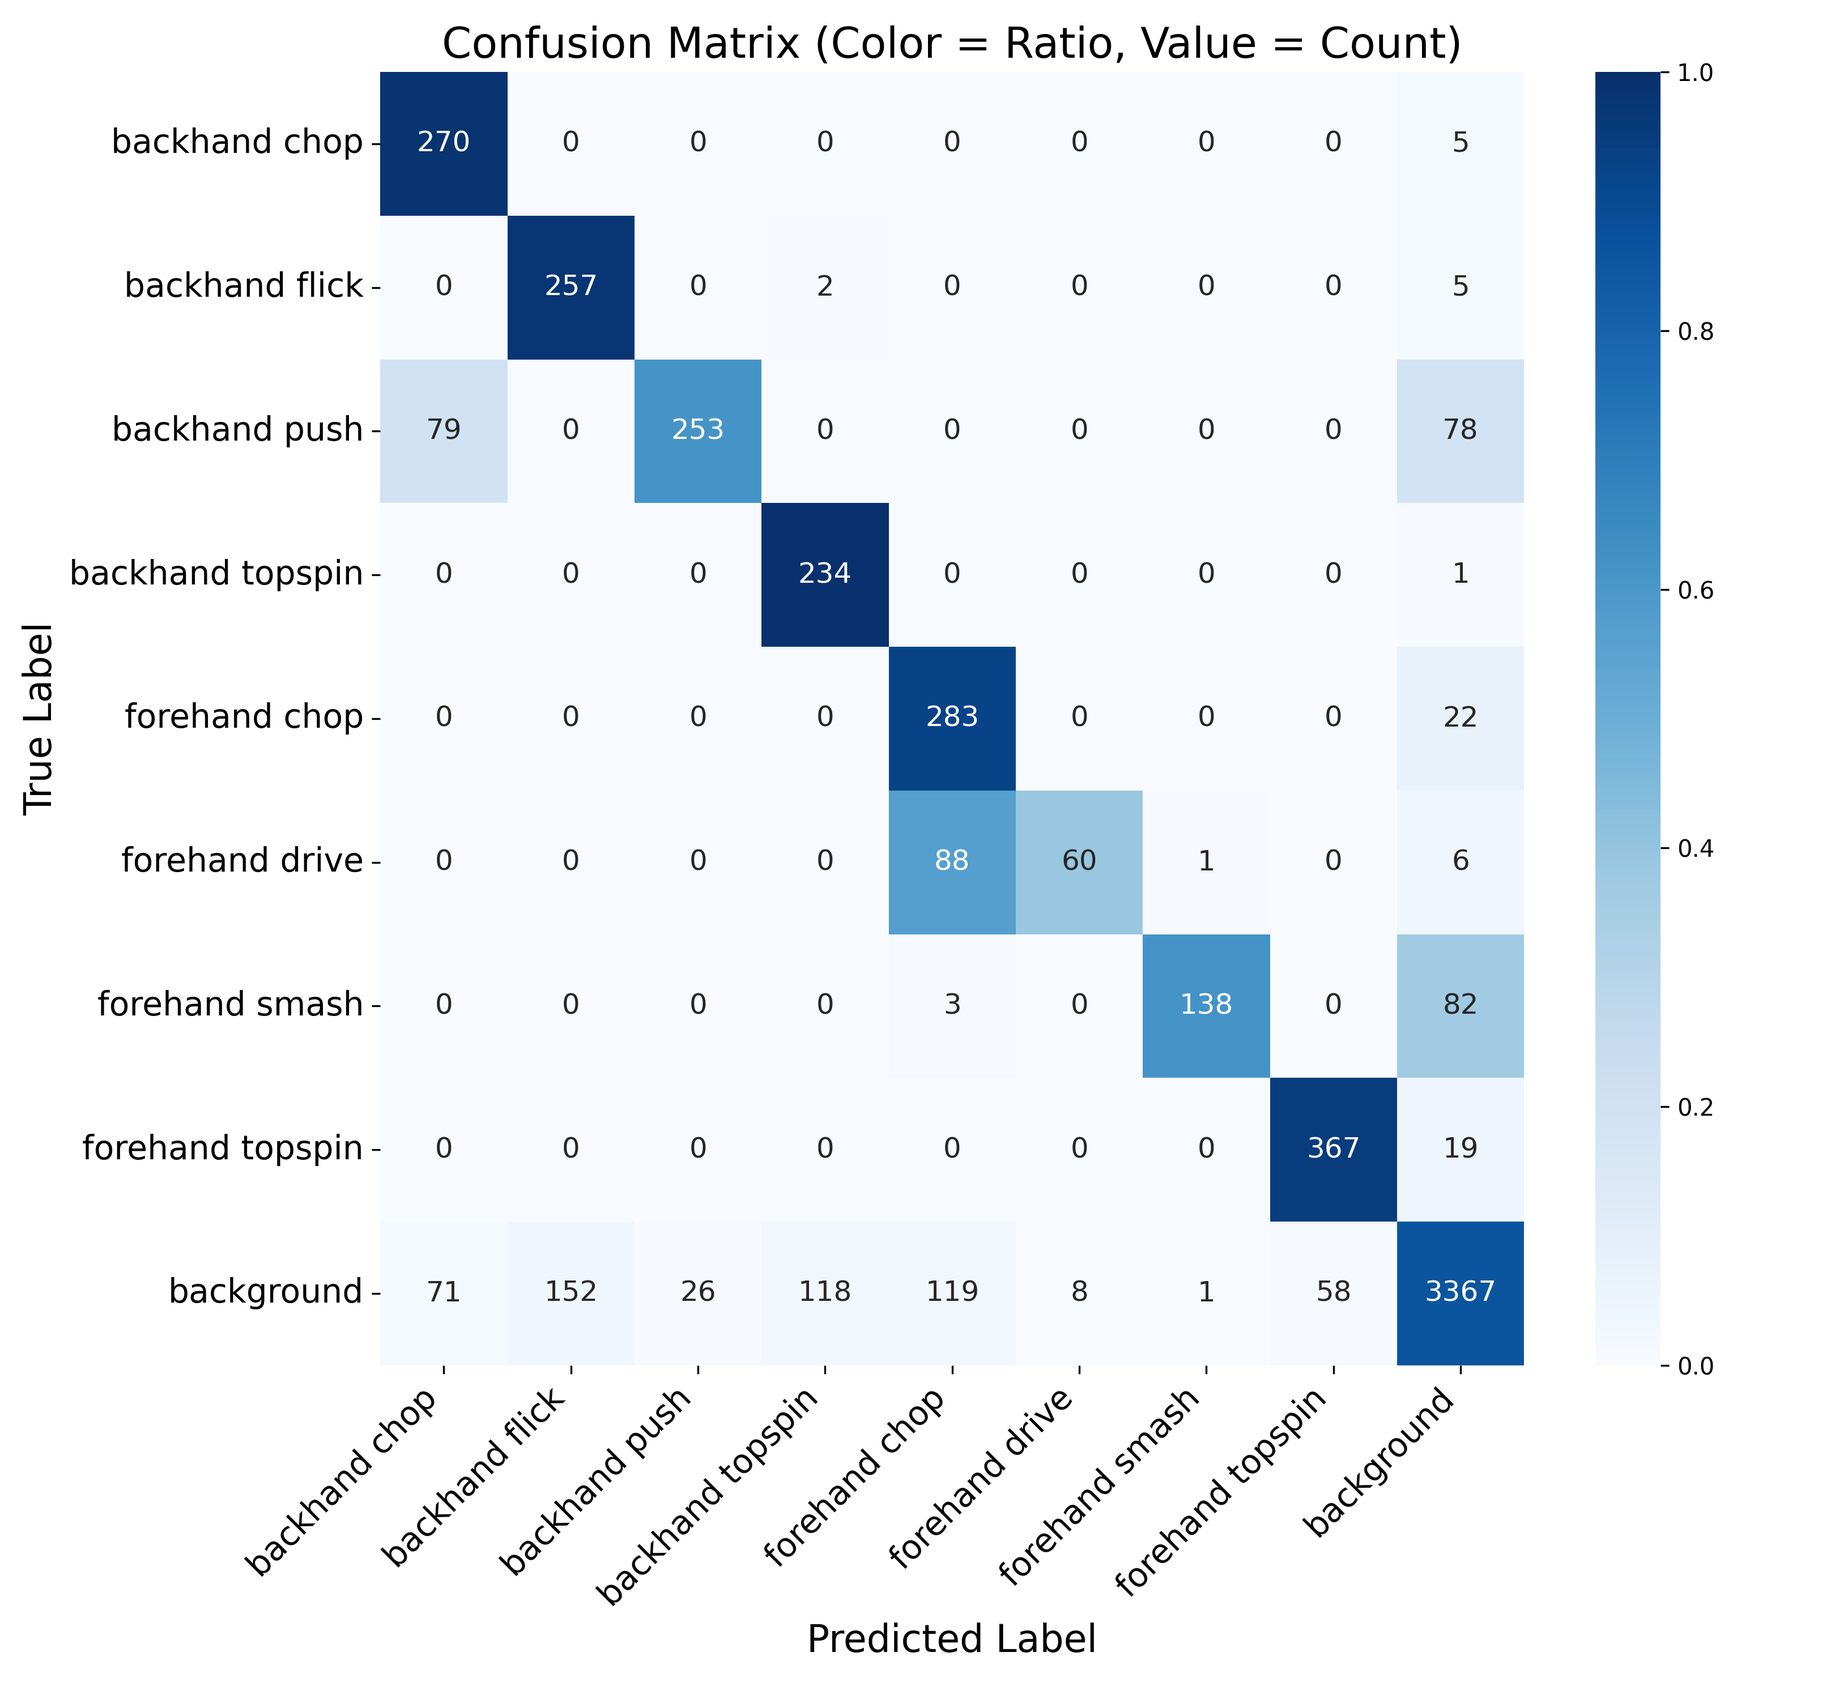
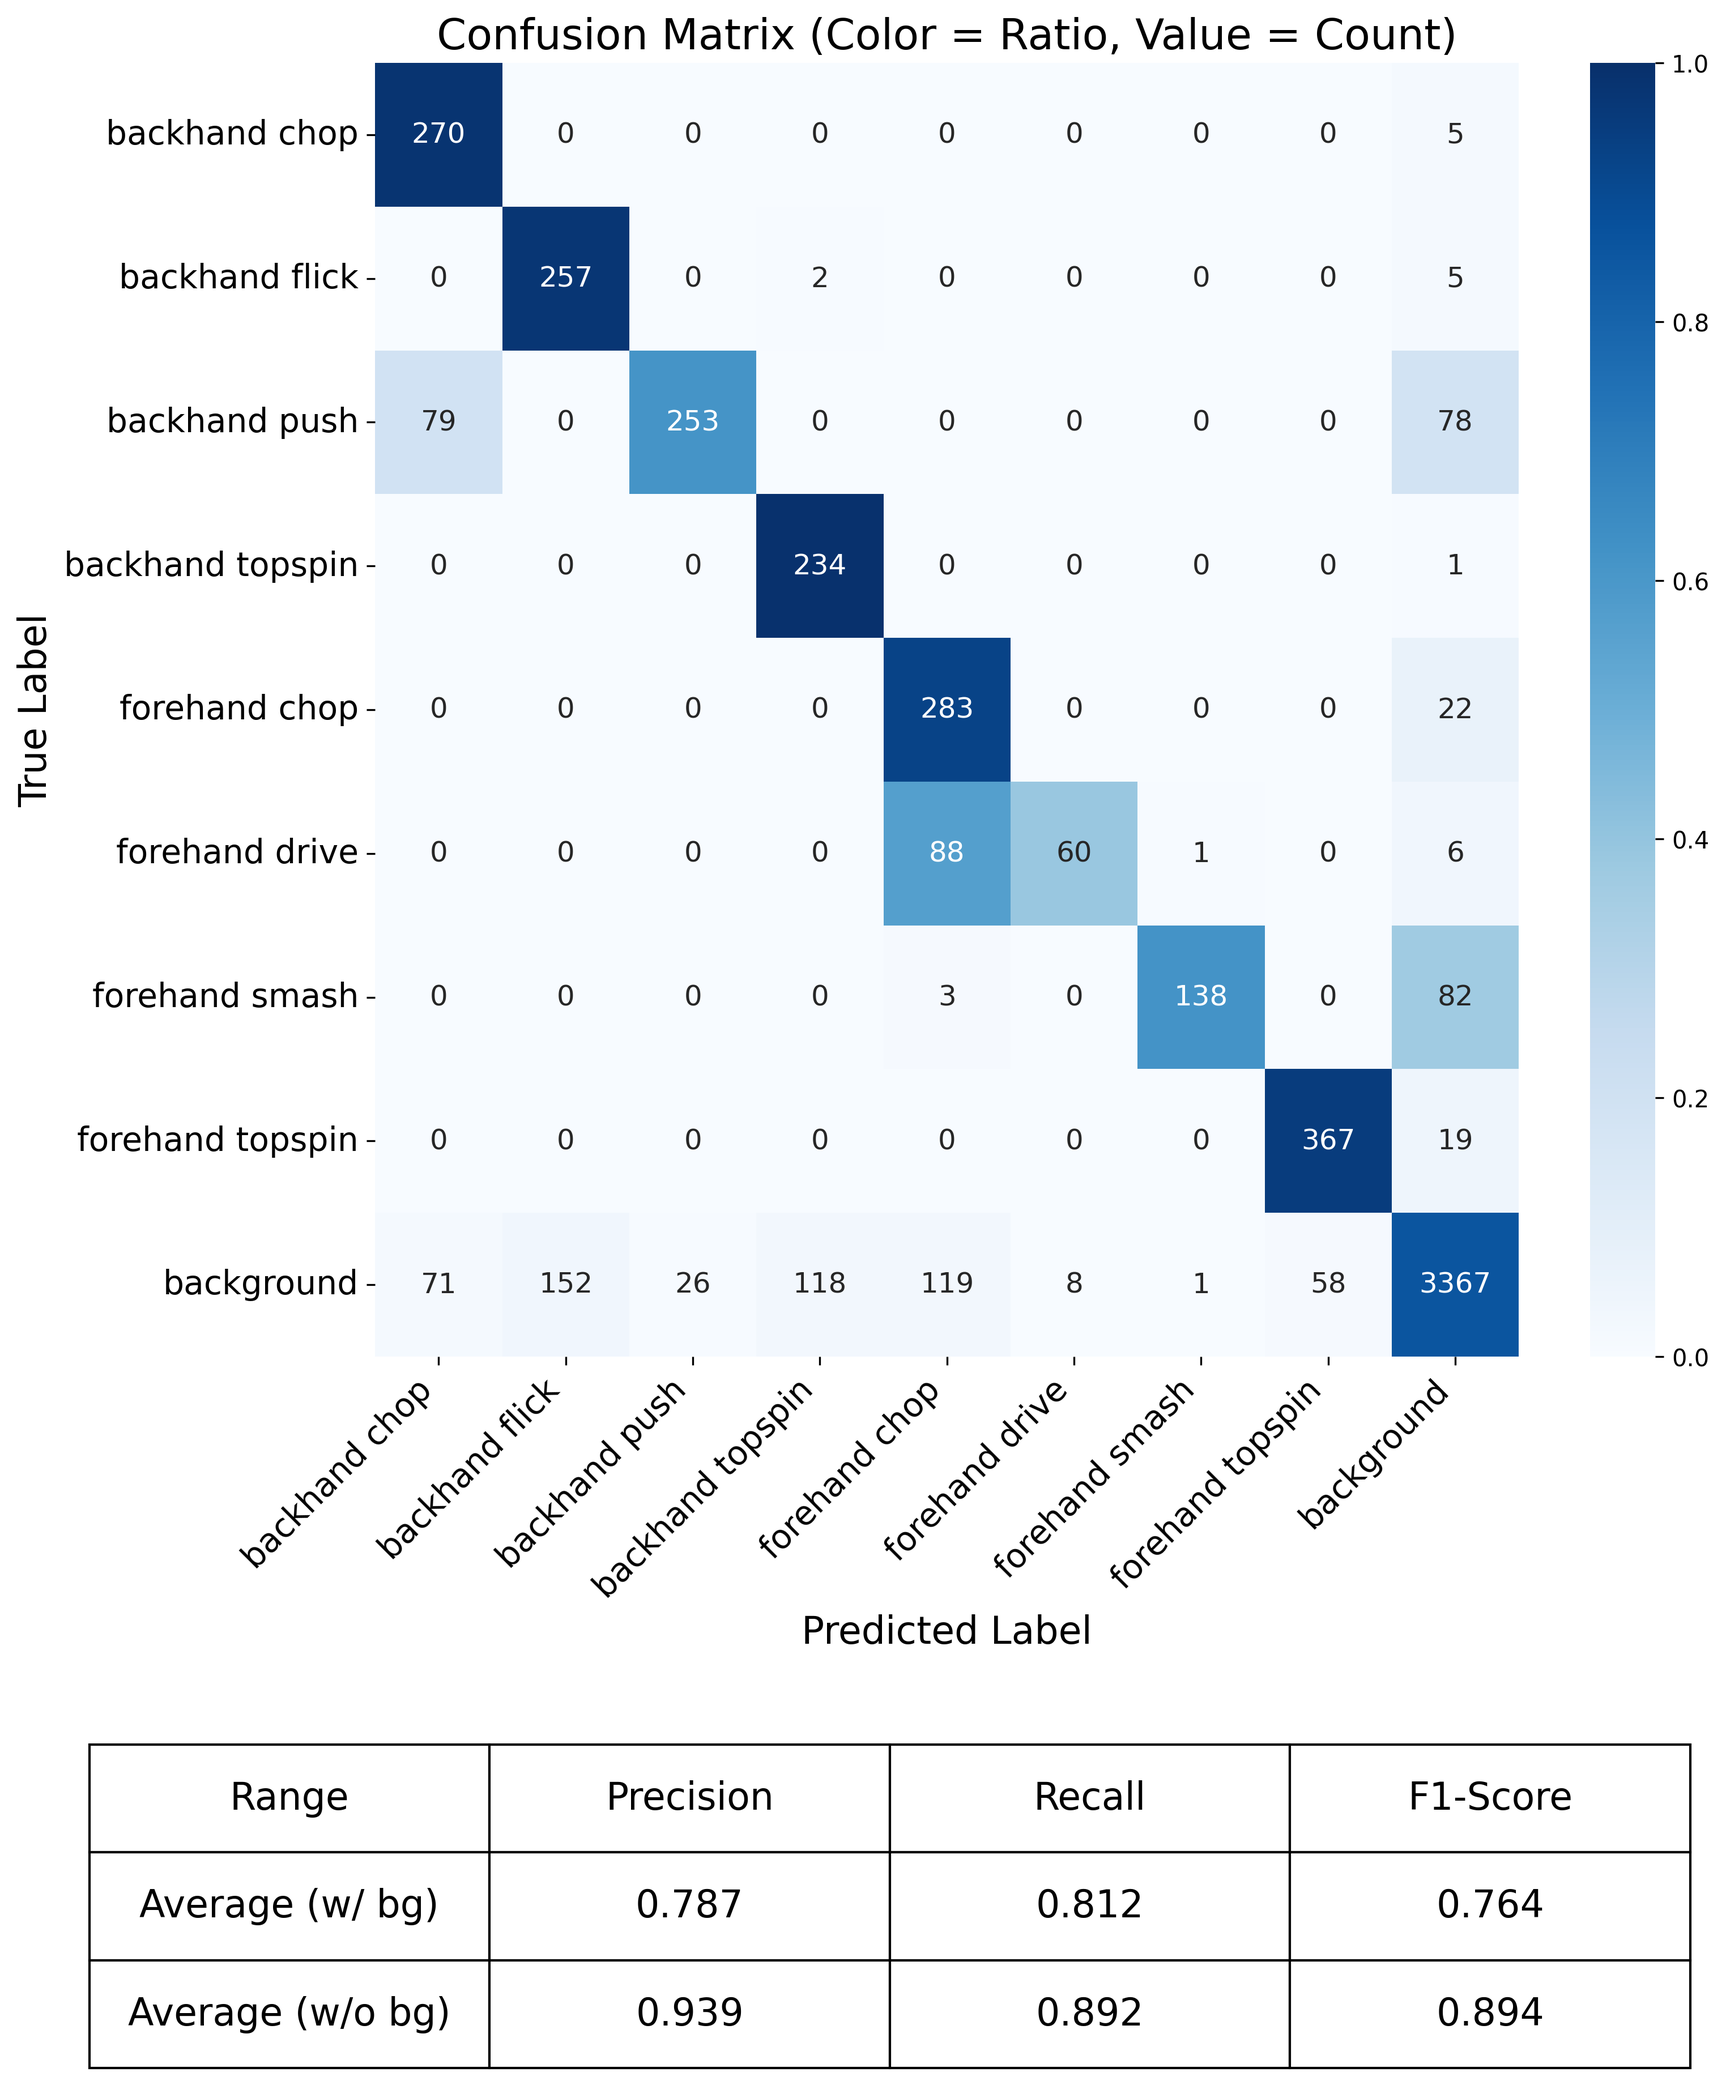
增加畫圖

diff --git a/confusion_matrix.py b/confusion_matrix.py
@@ -20,6 +20,118 @@ class_names_dict = {
 root_path = "confusion_matrix"
 os.makedirs(root_path, exist_ok=True)
 
+
+def generate_confusion_matrix(raw_text, save_file_name):
+    # 轉換為 numpy 矩陣
+    conf_mat = np.array([list(map(int, line.strip().split(","))) for line in raw_text.strip().splitlines()])
+
+    # 計算 row-wise 比率（顏色用）
+    row_sums = conf_mat.sum(axis=1, keepdims=True)
+    normalized_colors = conf_mat / row_sums
+
+    # 根據 dict 排列標籤（確保順序正確）
+    num_classes = conf_mat.shape[0]
+    labels = [class_names_dict.get(i, f"Class {i+1}") for i in range(num_classes)]
+
+    # 畫圖
+    plt.figure(figsize=(1.2 * num_classes, 1.1 * num_classes))
+    sns.heatmap(
+        normalized_colors,
+        annot=conf_mat,
+        fmt="d",
+        cmap="Blues",
+        xticklabels=labels,
+        yticklabels=labels,
+        annot_kws={"size": 12},
+        vmin=0,
+        vmax=1,
+    )
+
+    plt.xlabel("Predicted Label", fontsize=16)
+    plt.ylabel("True Label", fontsize=16)
+    plt.title("Confusion Matrix (Color = Ratio, Value = Count)", fontsize=18)
+
+    plt.xticks(rotation=45, ha="right", fontsize=14)
+    plt.yticks(fontsize=14)
+    plt.tight_layout()
+
+    # 計算 Precision / Recall / F1
+    TP = np.diag(conf_mat)
+    FP = np.sum(conf_mat, axis=0) - TP
+    FN = np.sum(conf_mat, axis=1) - TP
+
+    precision = TP / (TP + FP + 1e-10)
+    recall = TP / (TP + FN + 1e-10)
+    f1 = 2 * precision * recall / (precision + recall + 1e-10)
+
+    avg_all = {"Precision": np.mean(precision), "Recall": np.mean(recall), "F1-Score": np.mean(f1)}
+
+    # 排除最後一類
+    conf_mat_no_bg = conf_mat[:-1, :-1]
+
+    TP_no_bg = np.diag(conf_mat_no_bg)
+    FP_no_bg = np.sum(conf_mat_no_bg, axis=0) - TP_no_bg
+    FN_no_bg = np.sum(conf_mat_no_bg, axis=1) - TP_no_bg
+
+    precision_no_bg = TP_no_bg / (TP_no_bg + FP_no_bg + 1e-10)
+    recall_no_bg = TP_no_bg / (TP_no_bg + FN_no_bg + 1e-10)
+    f1_no_bg = 2 * precision_no_bg * recall_no_bg / (precision_no_bg + recall_no_bg + 1e-10)
+
+    avg_no_bg = {
+        "Precision": np.mean(precision_no_bg),
+        "Recall": np.mean(recall_no_bg),
+        "F1-Score": np.mean(f1_no_bg),
+    }
+
+    # 準備表格資料
+    table_data = [
+        ["Average (w/ bg)", f"{avg_all['Precision']:.3f}", f"{avg_all['Recall']:.3f}", f"{avg_all['F1-Score']:.3f}"],
+        [
+            "Average (w/o bg)",
+            f"{avg_no_bg['Precision']:.3f}",
+            f"{avg_no_bg['Recall']:.3f}",
+            f"{avg_no_bg['F1-Score']:.3f}",
+        ],
+    ]
+    column_labels = ["Range", "Precision", "Recall", "F1-Score"]
+
+    # ---- 建立表格並放置在圖片下方 ----
+    table = plt.table(
+        cellText=table_data,
+        colLabels=column_labels,
+        cellLoc="center",
+        loc="bottom",
+        bbox=[-0.25, -0.55, 1.4, 0.25],  # [x, y, width, height]，視圖高度而定
+        edges="closed",
+    )
+
+    table.auto_set_font_size(False)
+    table.set_fontsize(16)
+
+    # 儲存圖片
+    plt.savefig(os.path.join(root_path, save_file_name), dpi=300, bbox_inches="tight")
+    plt.close()
+
+    print(f"已儲存混淆矩陣圖為 {os.path.join(root_path, save_file_name)}")
+
+
+# ---------------------------------------HIT only rgb-------------------------------------------------
+
+# 貼上你的混淆矩陣文字
+raw_text = """
+252,  0,  0,  0,  0,  0,  0,  0, 23
+  0,250,  0,  0,  0,  0,  0,  0, 14
+ 66,  0,291,  0,  0,  0,  0,  0, 53
+  1,  6, 54,166,  0,  0,  0,  2,  6
+  0,  0,  0,  0,238,  0,  0,  0, 67
+  0,  0,  0,  0,  5,122,  0,  0, 28
+  0,  0,  0,  0,  4, 43, 54,  7,115
+  0,  0,  0,  0,  0,  0,  0,352, 34
+ 37,202, 70, 27, 11, 29,  0,126,3418
+"""
+
+generate_confusion_matrix(raw_text, "hit_only_rgb.png")
+
 # ---------------------------------------HIT add single frame pose-------------------------------------------------
 
 # 貼上你的混淆矩陣文字
@@ -35,44 +147,8 @@ raw_text = """
  71,152, 26,118,119,  8,  1, 58,3367
 """
 
-# 轉換為 numpy 矩陣
-conf_mat = np.array([list(map(int, line.strip().split(","))) for line in raw_text.strip().splitlines()])
+generate_confusion_matrix(raw_text, "hit_add_single_frame_pose.png")
 
-# 計算 row-wise 比率（顏色用）
-row_sums = conf_mat.sum(axis=1, keepdims=True)
-normalized_colors = conf_mat / row_sums
-
-# 根據 dict 排列標籤（確保順序正確）
-num_classes = conf_mat.shape[0]
-labels = [class_names_dict.get(i, f"Class {i+1}") for i in range(num_classes)]
-
-# 畫圖
-plt.figure(figsize=(1.2 * num_classes, 1.1 * num_classes))
-sns.heatmap(
-    normalized_colors,
-    annot=conf_mat,
-    fmt="d",
-    cmap="Blues",
-    xticklabels=labels,
-    yticklabels=labels,
-    annot_kws={"size": 12},
-    vmin=0,
-    vmax=1,
-)
-
-plt.xlabel("Predicted Label", fontsize=16)
-plt.ylabel("True Label", fontsize=16)
-plt.title("Confusion Matrix (Color = Ratio, Value = Count)", fontsize=18)
-
-plt.xticks(rotation=45, ha="right", fontsize=14)
-plt.yticks(fontsize=14)
-plt.tight_layout()
-
-# 儲存圖片
-plt.savefig(os.path.join(root_path, "hit_add_single_frame_pose.png"), dpi=300)
-plt.close()
-
-print(f"已儲存混淆矩陣圖為 {os.path.join(root_path, 'hit_add_single_frame_pose.png')}")
 
 # --------------------------------------- skateformer -------------------------------------------------
 
@@ -88,45 +164,8 @@ raw_text = """
   0,  0,  0,  0,  0,  0,  0,369, 17
   8, 53,  0,  4, 20, 17,  2, 50,3766
 """
+generate_confusion_matrix(raw_text, "skateformer.png")
 
-# 轉換為 numpy 矩陣
-conf_mat = np.array([list(map(int, line.strip().split(","))) for line in raw_text.strip().splitlines()])
-
-# 計算 row-wise 比率（顏色用）
-row_sums = conf_mat.sum(axis=1, keepdims=True)
-normalized_colors = conf_mat / row_sums
-
-# 根據 dict 排列標籤（確保順序正確）
-num_classes = conf_mat.shape[0]
-labels = [class_names_dict.get(i, f"Class {i+1}") for i in range(num_classes)]
-
-# 畫圖
-plt.figure(figsize=(1.2 * num_classes, 1.1 * num_classes))
-sns.heatmap(
-    normalized_colors,
-    annot=conf_mat,
-    fmt="d",
-    cmap="Blues",
-    xticklabels=labels,
-    yticklabels=labels,
-    annot_kws={"size": 12},
-    vmin=0,
-    vmax=1,
-)
-
-plt.xlabel("Predicted Label", fontsize=16)
-plt.ylabel("True Label", fontsize=16)
-plt.title("Confusion Matrix (Color = Ratio, Value = Count)", fontsize=18)
-
-plt.xticks(rotation=45, ha="right", fontsize=14)
-plt.yticks(fontsize=14)
-plt.tight_layout()
-
-# 儲存圖片
-plt.savefig(os.path.join(root_path, "skateformer.png"), dpi=300)
-plt.close()
-
-print(f"已儲存混淆矩陣圖為 {os.path.join(root_path, 'skateformer.png')}")
 
 # ---------------------------------------HIT add skateformer -------------------------------------------------
 
@@ -143,41 +182,4 @@ raw_text = """
   9, 59,  8, 30,  5,  7,  0, 16,3786
 """
 
-# 轉換為 numpy 矩陣
-conf_mat = np.array([list(map(int, line.strip().split(","))) for line in raw_text.strip().splitlines()])
-
-# 計算 row-wise 比率（顏色用）
-row_sums = conf_mat.sum(axis=1, keepdims=True)
-normalized_colors = conf_mat / row_sums
-
-# 根據 dict 排列標籤（確保順序正確）
-num_classes = conf_mat.shape[0]
-labels = [class_names_dict.get(i, f"Class {i+1}") for i in range(num_classes)]
-
-# 畫圖
-plt.figure(figsize=(1.2 * num_classes, 1.1 * num_classes))
-sns.heatmap(
-    normalized_colors,
-    annot=conf_mat,
-    fmt="d",
-    cmap="Blues",
-    xticklabels=labels,
-    yticklabels=labels,
-    annot_kws={"size": 12},
-    vmin=0,
-    vmax=1,
-)
-
-plt.xlabel("Predicted Label", fontsize=16)
-plt.ylabel("True Label", fontsize=16)
-plt.title("Confusion Matrix (Color = Ratio, Value = Count)", fontsize=18)
-
-plt.xticks(rotation=45, ha="right", fontsize=14)
-plt.yticks(fontsize=14)
-plt.tight_layout()
-
-# 儲存圖片
-plt.savefig(os.path.join(root_path, "hit_add_skateformer.png"), dpi=300)
-plt.close()
-
-print(f"已儲存混淆矩陣圖為 {os.path.join(root_path, 'hit_add_skateformer.png')}")
+generate_confusion_matrix(raw_text, "hit_add_skateformer.png")
